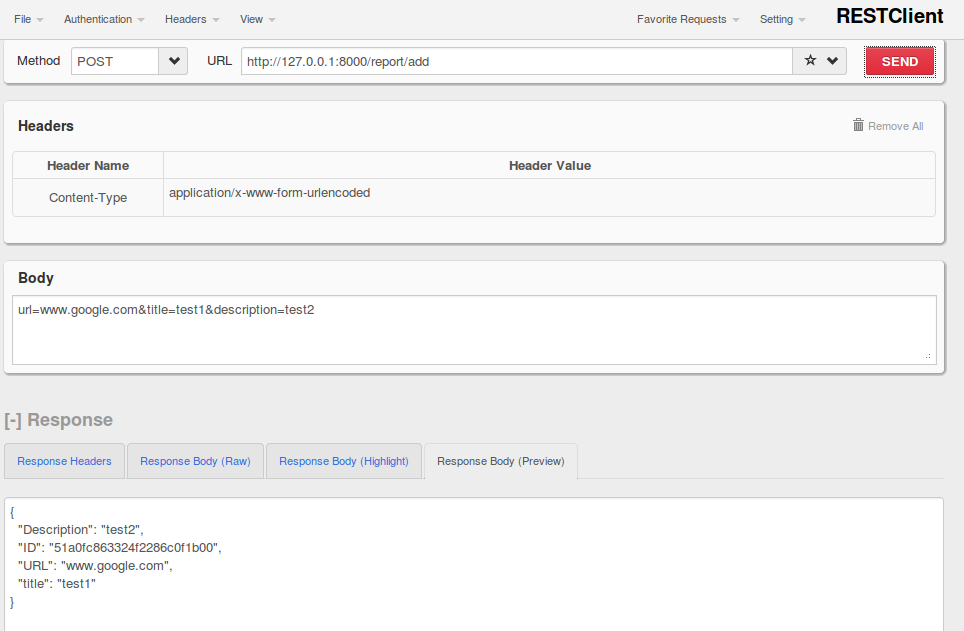
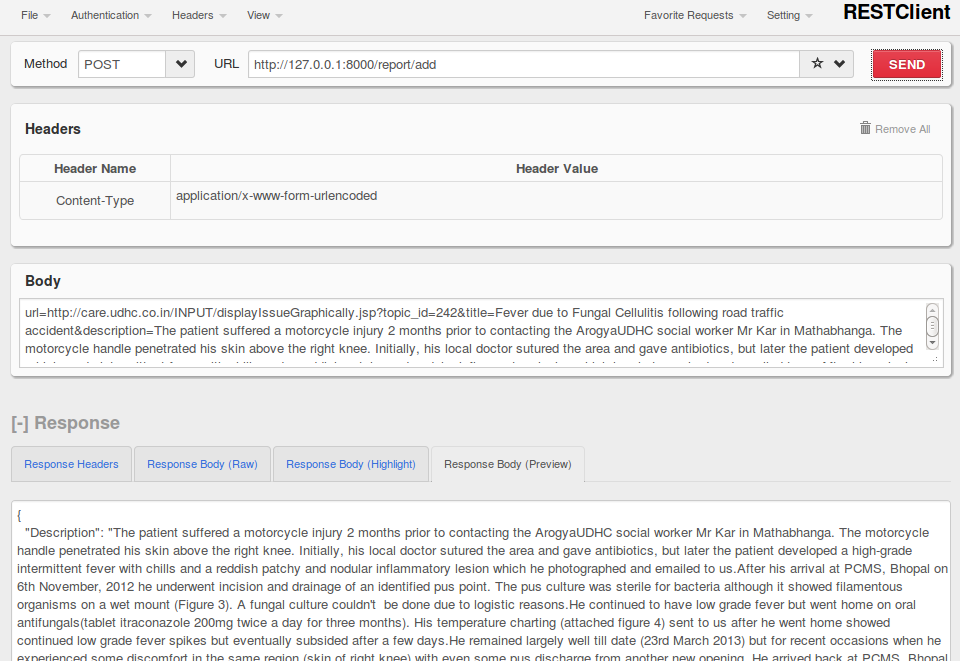
steps for testing

Changed region(s): [[0.0, 0.0, 1.0, 0.6022], [0.0, 0.6323, 1.0, 1.0], [0.0, 0.271, 0.0312, 0.3011]]

diff --git a/README.md b/README.md
@@ -53,7 +53,7 @@ The objective of having a webservice is to make sure the system can be extended 
 Storage
 ---------
 
-The case reports are stored in documents in a MongoDB database ( plumbing done by Mongohq.org ).
+The case reports are stored in documents in a MongoDB database ( plumbing managed by Mongohq.org ).
 To make sure performance doesn't fall due to opening of new connections, the application checks
 if there's an alive connection , failure of which makes the application instantiate a new 
 database connection.
@@ -81,7 +81,7 @@ http://health-nodejstest.rhcloud.com/
 
 ( Relax, it's got nothing to do with Node.js )
 
-Technologies used for building
+Technologies used for writing
 -------------------------------
 
 - Server-side scripting : Python ,
@@ -107,8 +107,22 @@ Installation
 Testing
 --------
 
-I used the Firefox REST client add-on.
+I used the Firefox REST client add-on to test the locally deployed application.
+( https://addons.mozilla.org/en-us/firefox/addon/restclient/ )
 
 Screenshots : 
+
 - Adding a case report to index :   http://health-nodejstest.rhcloud.com/add-report.png
 - Similarity prediction :   http://health-nodejstest.rhcloud.com/similarity.png
+
+Steps to test the ( currenty 2 ) webservice endpoints :
+
+- Set HTTP Method to POST .
+- Create a customer header "Content-Type" to "x-www-form-urlencoded".
+- Add the parameters in the request body 
+
+( example, 
+
+		url=http://care.udhc.co.in/INPUT/displayIssueGraphically.jsp?topic_id=242&title=Fever due to Fungal Cellulitis following road traffic accident&description=The patient suffered a motorcycle injury 2 months prior to contacting the ArogyaUDHC social worker Mr Kar in Mathabhanga. The motorcycle handle penetrated his skin above the right knee. Initially, his local doctor sutured the area and gave antibiotics, but later the patient developed a high-grade intermittent fever with chills and a reddish patchy and nodular inflammatory lesion which he photographed and emailed to us.After his arrival at PCMS, Bhopal on 6th November, 2012 he underwent incision and drainage of an identified pus point. The pus culture was sterile for bacteria although it showed filamentous organisms on a wet mount (Figure 3). A fungal culture couldn't  be done due to logistic reasons.He continued to have low grade fever but went home on oral antifungals(tablet itraconazole 200mg twice a day for three months). His temperature charting (attached figure 4) sent to us after he went home showed continued low grade fever spikes but eventually subsided after a few days.He remained largely well till date (23rd March 2013) but for recent occasions when he experienced some discomfort in the same region (skin of right knee) with even some pus discharge from another new opening. He arrived back at PCMS, Bhopal on 21st March 2013. Has been planned for more extensive debridement on the 25th of March 2013.
+)
+
